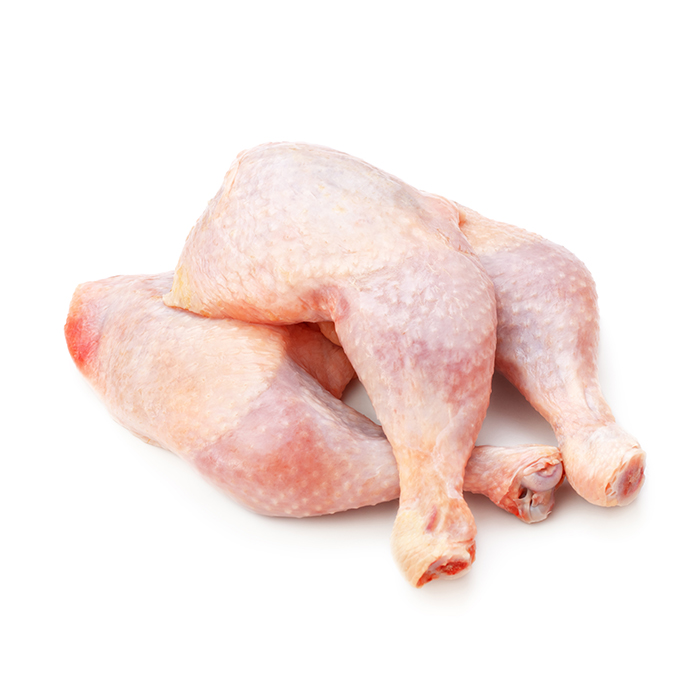
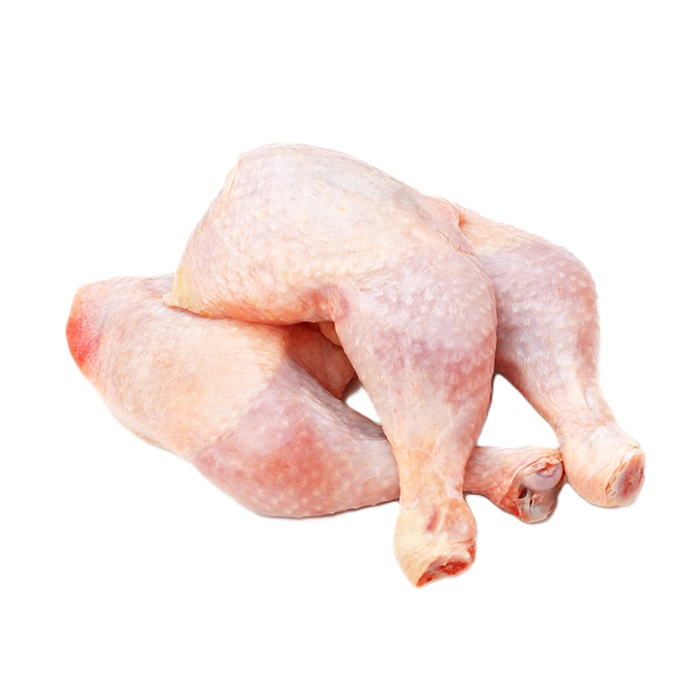
feat: Subtle change in ManageMyFavorites: setIsFavorite has been placed in useEffect Hook

diff --git a/frontend/src/styles/pages/DetailsRecipe.css b/frontend/src/styles/pages/DetailsRecipe.css
@@ -84,6 +84,13 @@
   width: auto;
 }
 
+.item-container {
+  display: flex;
+  flex-direction: row;
+  align-items: center;
+  padding: 15px;
+}
+
 .steps-container {
   display: flex;
   justify-content: center;
@@ -139,19 +146,17 @@
   background-color: rgb(67, 190, 102) !important;
 }
 
-hr {
-  width: 70%;
-  color: #cbf4d6;
-}
-
 .img-ingredient {
-  width: 100px;
+  width: 70px;
   height: auto;
+  border: 2px solid rgb(67, 190, 102);
+  border-radius: 10px;
+  margin-right: 20px;
 }
 li {
   list-style: none;
 }
 
 .detail-fav-btn {
-  font-size: 40px!important;
+  font-size: 40px !important;
 }

diff --git a/frontend/src/components/organisms/ManageMyFavorites.jsx b/frontend/src/components/organisms/ManageMyFavorites.jsx
@@ -1,5 +1,5 @@
 /* eslint-disable react/prop-types */
-import { useState } from "react";
+import { useEffect, useState } from "react";
 import {
   addRecipeToFavorites,
   deleteFavoriteRecipe,
@@ -14,10 +14,13 @@ const ManageMyFavorites = ({ recipeId, favorites = [], setFavorites }) => {
   // Récupère l'état de l'authentification de l'utilisateur depuis le store
   const { isAuthenticated } = useAuthStore();
   // État pour vérifier si la recette est dans les favoris
-  const [isFavorite, setIsFavorite] = useState(
-    favorites.some((fav) => fav._id === recipeId)
-  );
+  const [isFavorite, setIsFavorite] = useState(false);
   const [error, setError] = useState(null);
+
+  // useEffect permet de mettre à jour l'état du favori lorsqu'une recette est ajoutée ou supprimée
+  useEffect(() => {
+    setIsFavorite(favorites.some((fav) => fav._id === recipeId));
+  }, [recipeId, favorites]);
 
   // Fonction pour ajouter et supprimer une recette des favoris
   const toggleFavorite = async () => {